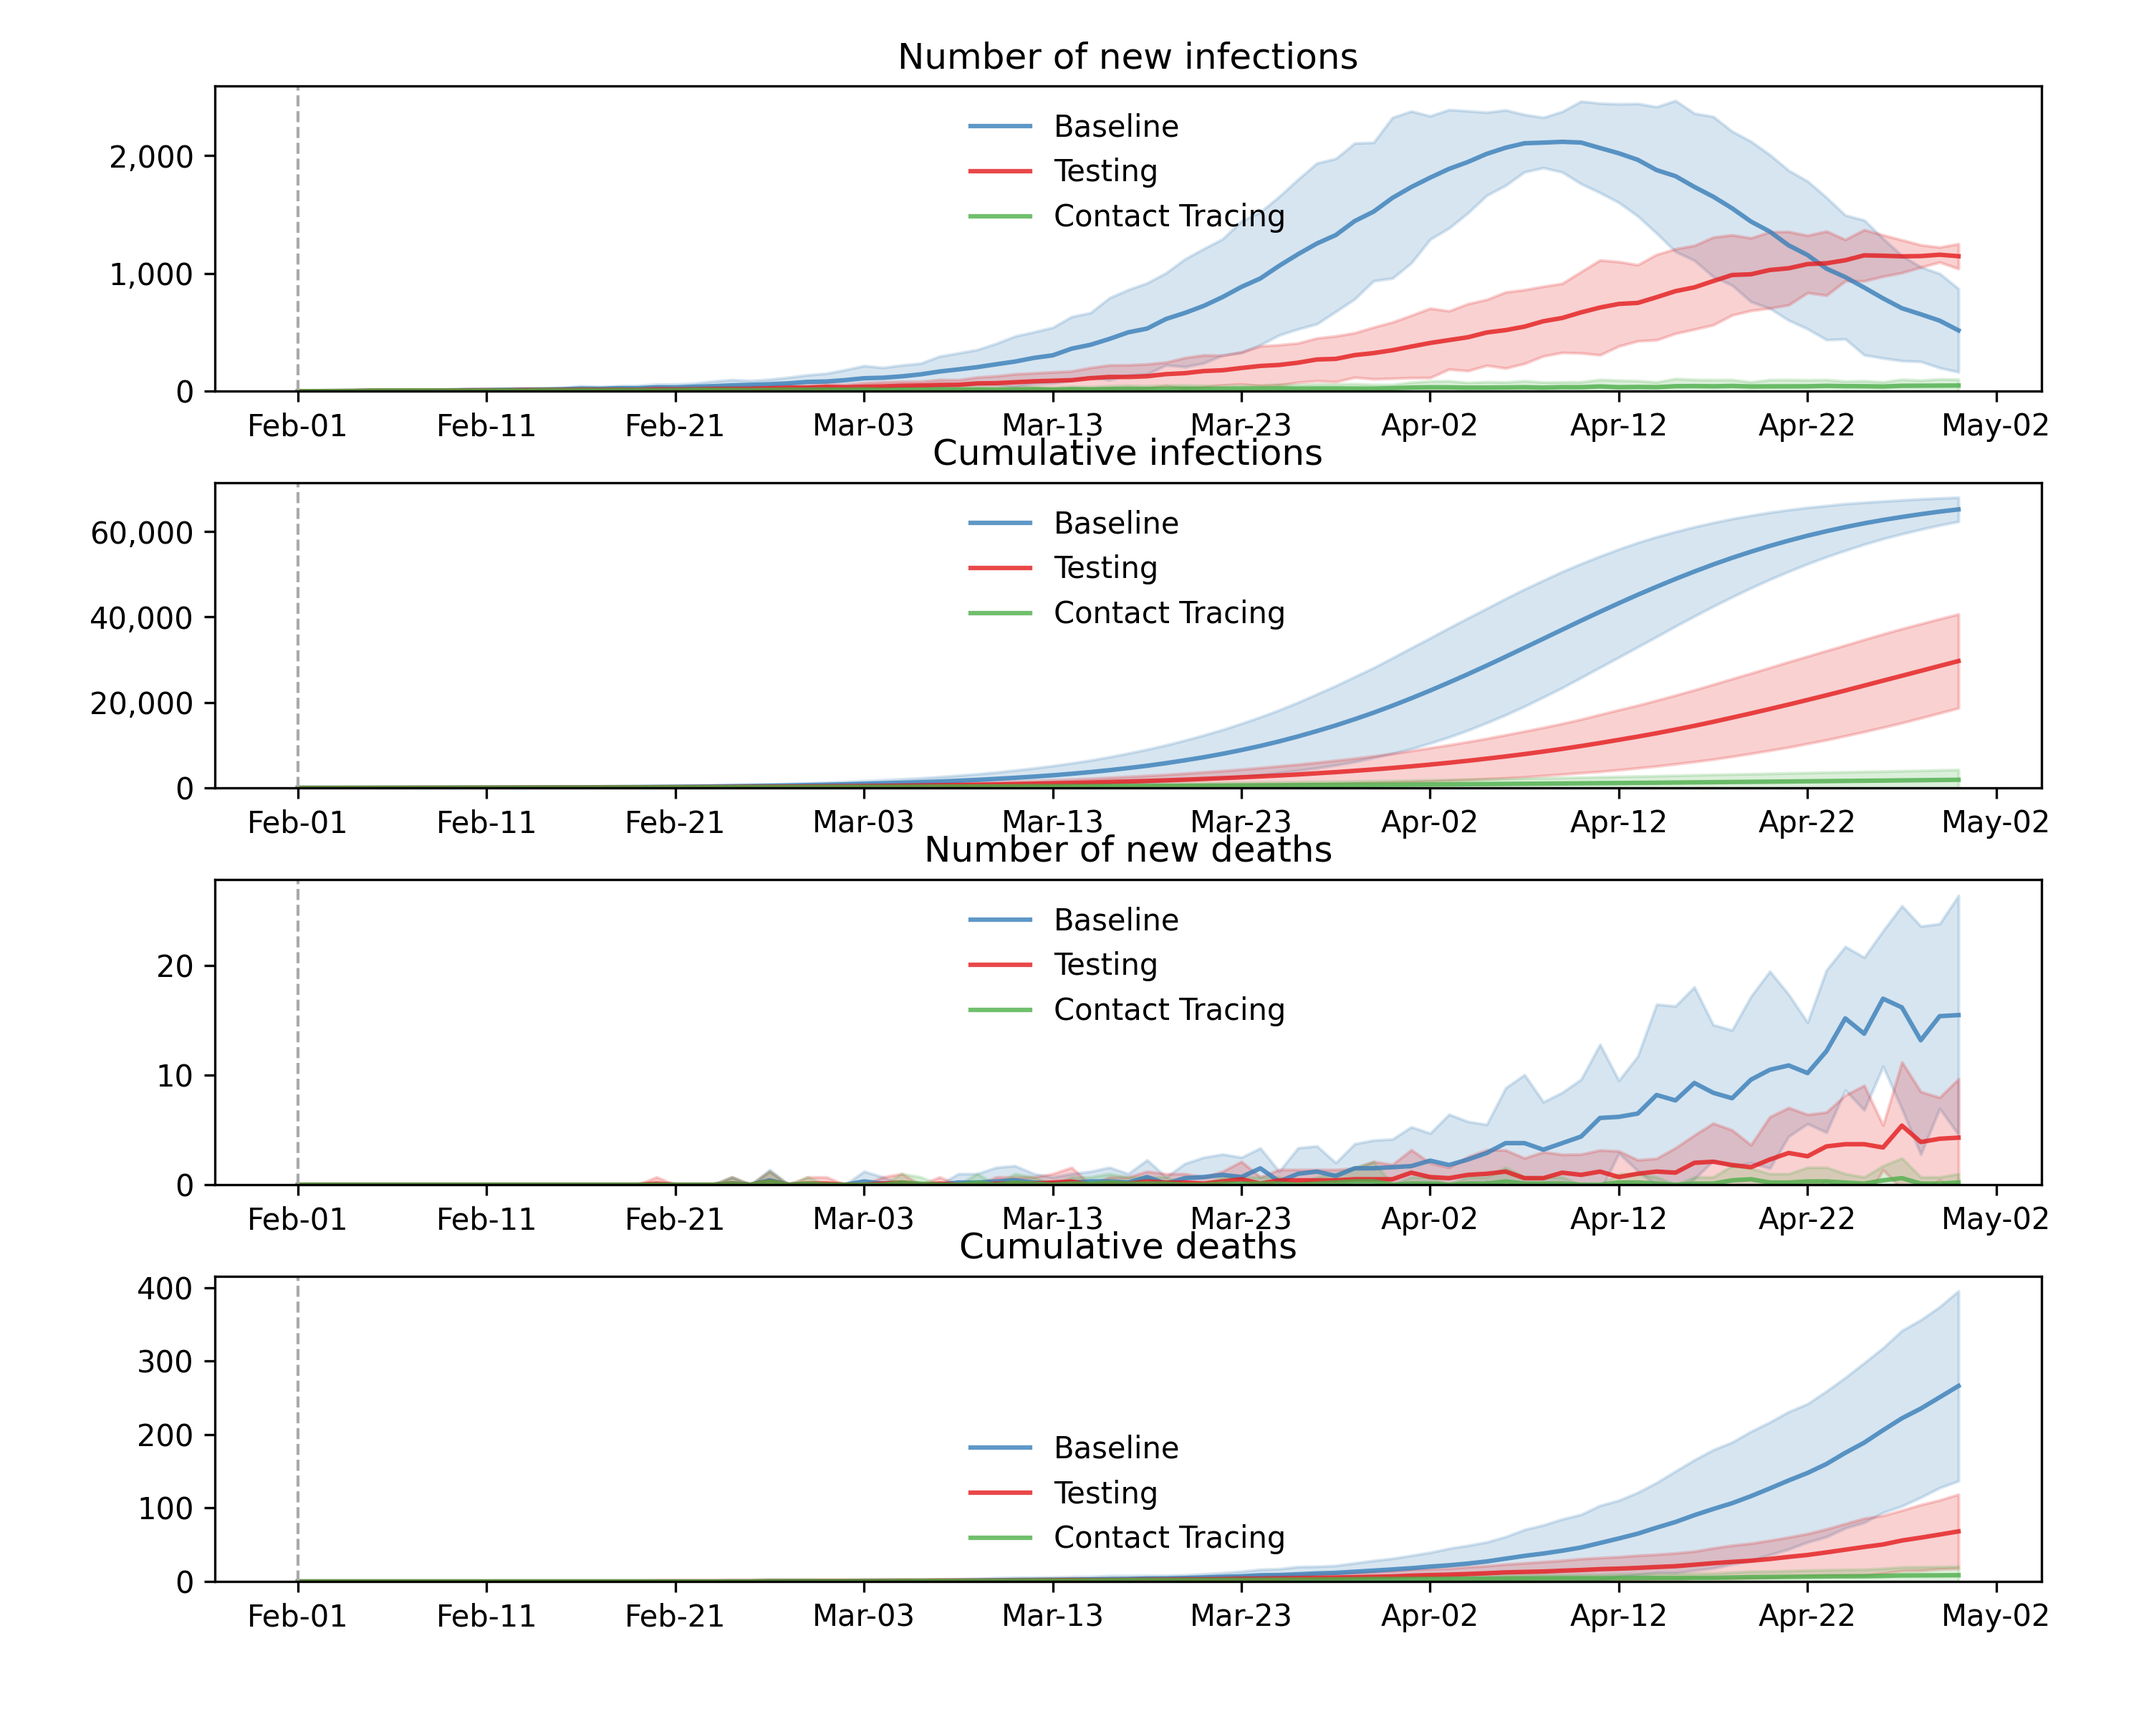
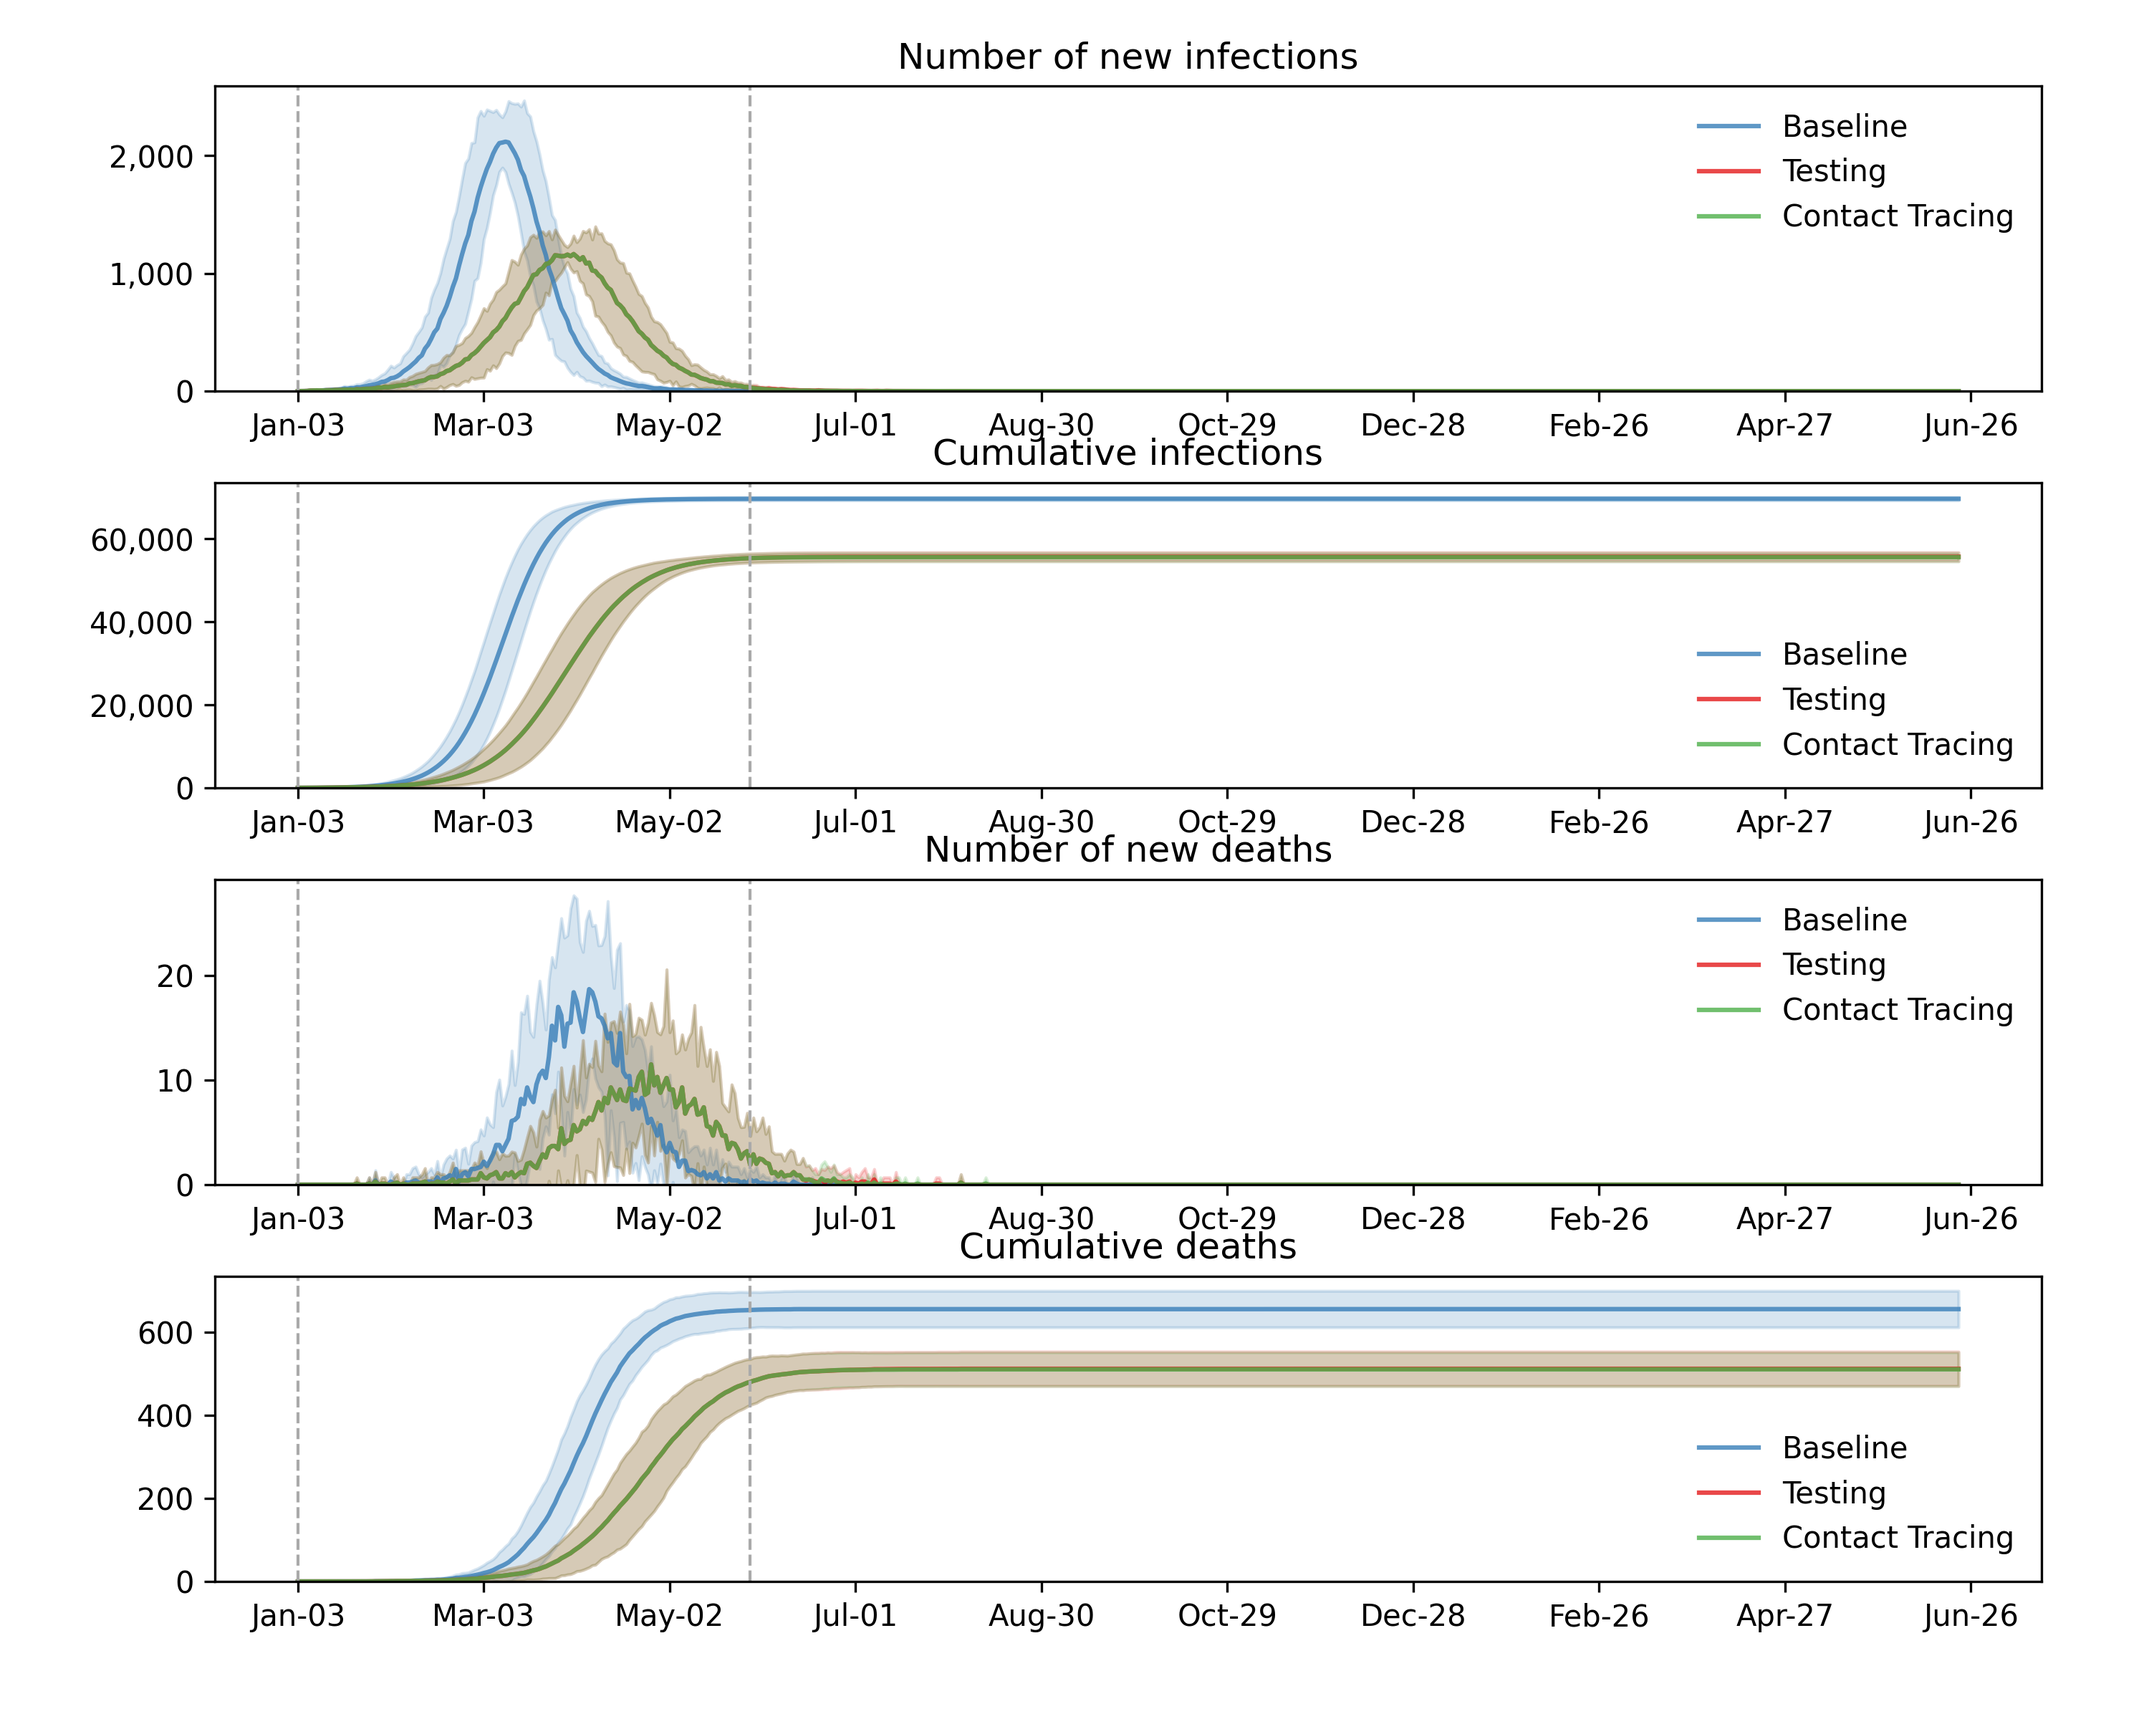
Changed simulation date range and fixed start date of contact tracing

diff --git a/causcumber/scenarios/isle_of_man_outbreak/isle_of_man_outbreak_sim.py b/causcumber/scenarios/isle_of_man_outbreak/isle_of_man_outbreak_sim.py
@@ -1,5 +1,5 @@
 import covasim as cv
-
+from datetime import datetime as dt
 
 def msim_to_csv(simulation: cv.MultiSim, output_file_name: str):
     """ Takes a MultiSim simulation, converts to a CSV file, and saves to ./results/ with the
@@ -7,19 +7,27 @@ def msim_to_csv(simulation: cv.MultiSim, output_file_name: str):
     simulation_df = simulation.base_sim.to_df()
     simulation_df.to_csv("./results/{}.csv".format(str.lower(output_file_name)), index=False)
 
+def days_between(d1, d2):
+    """ Given a pair of days in Year-Month-Day format, calculate the number of days between them. """
+    d1 = dt.strptime(d1, "%Y-%m-%d")
+    d2 = dt.strptime(d2, "%Y-%m-%d")
+    return abs((d2 - d1).days)
 
 """ Which intervention is more effective at reducing the cumulative number of infections? """
 isle_of_man_outbreak_pars = dict(
     location="UK",  # No Isle of Man, UK is closest
-    start_day="2021-02-01",
-    end_day="2021-04-30",
+    start_day="2020-01-03",
+    end_day="2021-06-22",
     pop_type="hybrid",
     pop_size=84584
 )
+contact_tracing_start_date = "2020-05-28"
+contact_tracing_start_day = days_between(contact_tracing_start_date, isle_of_man_outbreak_pars["start_day"])
 
 # Define interventions
 testing_intervention = cv.test_prob(symp_prob=0.2, asymp_prob=0.001, symp_quar_prob=1.0, asymp_quar_prob=1.0)
-contact_tracing_intervention = cv.contact_tracing(trace_probs=dict(h=1.0, s=0.5, w=0.5, c=0.3), start_day="2020-05-28")
+contact_tracing_intervention = cv.contact_tracing(trace_probs=dict(h=1.0, s=0.5, w=0.5, c=0.3),
+                                                  start_day=contact_tracing_start_day)
 
 # Create simulations
 baseline_sim = cv.Sim(pars=isle_of_man_outbreak_pars, label="Baseline")

diff --git a/causcumber/scenarios/isle_of_man_outbreak/README.md b/causcumber/scenarios/isle_of_man_outbreak/README.md
@@ -5,14 +5,21 @@ COVID-19 data for the Isle of Man.
 
 ![Isle of Man COVID-19 Cases and Deaths](data/true_isle_of_man_pandemic.png)
 
-We will create a simulation of the COVID-19 pandemic between the 1st February 2021 and 30th April 2021 and
+We will create a simulation of the COVID-19 pandemic between the 3rd January 2020 and 22nd June 2021 and
 see whether the predicted outcomes match the true data. To achieve this, we will create a Covasim MultiSim and run this
 10 times with the following parameters:
 - Location: UK (No Isle of Man, UK is closest)
-- Start day: 2021-02-01 (Year-Month-Day)
-- End day: 2021-04-30 (Year-Month-Day)
+- Start day: 2020-01-03 (Year-Month-Day)
+- End day: 2021-06-22 (Year-Month-Day)
 - Population type: Hybrid (Allows modelling of agent contacts in different environments including schools and workplace)
 - Population size: 84584 (Isle of Man population from 2019)
+
+In order to achieve the most realistic simulation, we have also implemented two interventions: testing and contact
+tracing. We assume that testing is available from the beginning of the pandemic (although this is an optimistic
+assumption) and we implement contact tracing (which requires testing) from May 28th 2020. We could further improve this
+simulation by implementing different versions of testing as these became available. For example, PCR testing and RF
+testing.
+
 
 The figures below show the results of this MultiSim:
 
